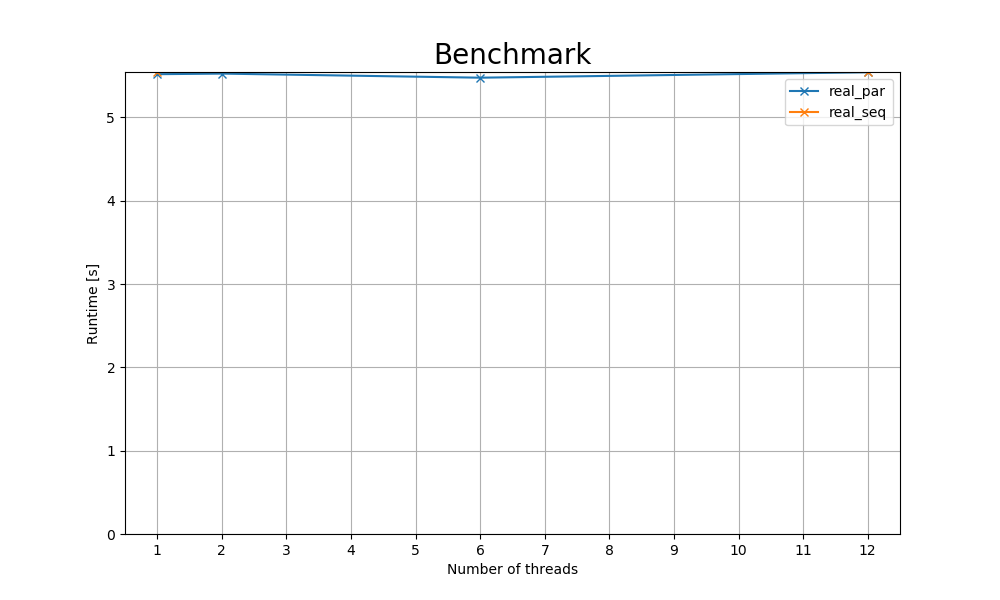
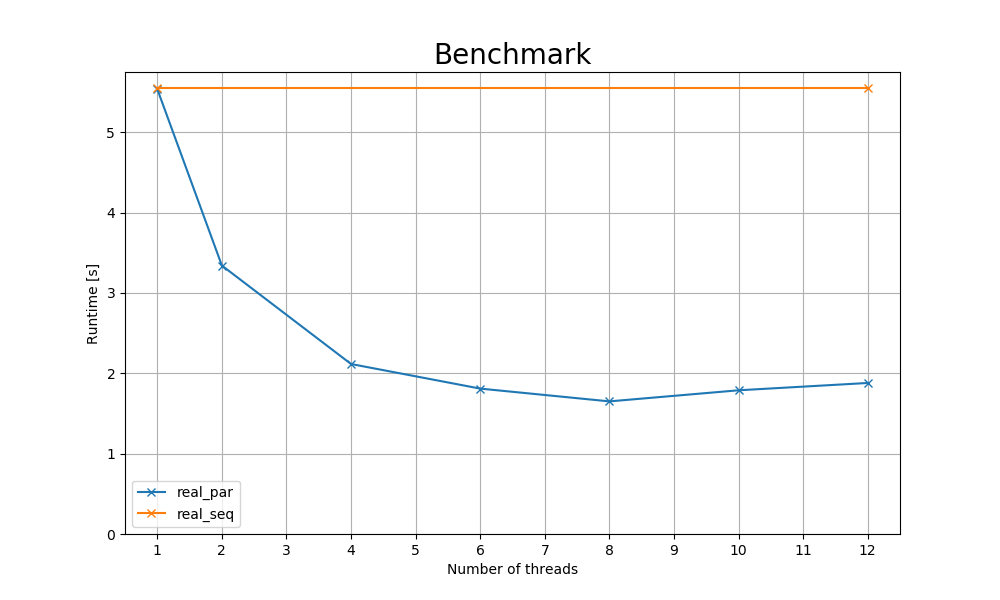
Finalized Assignment 11, Exercise 2 implementation

diff --git a/11/ex2/real_par.c b/11/ex2/real_par.c
@@ -442,6 +442,7 @@ static void psinv(void* or, void* ou, int n1, int n2, int n3, double c[4], int k
 	double r1[M], r2[M];
 
 	if(timeron) timer_start(T_psinv);
+#pragma omp parallel for private(i3, i2, i1, r1, r2)
 	for(i3 = 1; i3 < n3 - 1; i3++) {
 		for(i2 = 1; i2 < n2 - 1; i2++) {
 			for(i1 = 0; i1 < n1; i1++) {
@@ -499,6 +500,7 @@ static void resid(void* ou, void* ov, void* or, int n1, int n2, int n3, double a
 	double u1[M], u2[M];
 
 	if(timeron) timer_start(T_resid);
+#pragma omp parallel for private(i3, i2, i1, u1, u2)
 	for(i3 = 1; i3 < n3 - 1; i3++) {
 		for(i2 = 1; i2 < n2 - 1; i2++) {
 			for(i1 = 0; i1 < n1; i1++) {
@@ -573,6 +575,7 @@ static void rprj3(void* or, int m1k, int m2k, int m3k, void* os, int m1j, int m2
 		d3 = 1;
 	}
 
+#pragma omp parallel for private(j3, j2, j1, i3, i2, i1, x1, y1, x2, y2)
 	for(j3 = 1; j3 < m3j - 1; j3++) {
 		i3 = 2 * j3 - d3;
 		for(j2 = 1; j2 < m2j - 1; j2++) {
@@ -636,6 +639,7 @@ static void interp(void* oz, int mm1, int mm2, int mm3, void* ou, int n1, int n2
 
 	if(timeron) timer_start(T_interp);
 	if(n1 != 3 && n2 != 3 && n3 != 3) {
+#pragma omp parallel for private(i3, i2, i1, z1, z2, z3)
 		for(i3 = 0; i3 < mm3 - 1; i3++) {
 			for(i2 = 0; i2 < mm2 - 1; i2++) {
 				for(i1 = 0; i1 < mm1; i1++) {
@@ -692,6 +696,7 @@ static void interp(void* oz, int mm1, int mm2, int mm3, void* ou, int n1, int n2
 			t3 = 0;
 		}
 
+#pragma omp parallel for private(i3, i2, i1)
 		for(i3 = d3; i3 <= mm3 - 1; i3++) {
 			for(i2 = d2; i2 <= mm2 - 1; i2++) {
 				for(i1 = d1; i1 <= mm1 - 1; i1++) {
@@ -720,6 +725,7 @@ static void interp(void* oz, int mm1, int mm2, int mm3, void* ou, int n1, int n2
 			}
 		}
 
+#pragma omp parallel for private(i3, i2, i1)
 		for(i3 = 1; i3 <= mm3 - 1; i3++) {
 			for(i2 = d2; i2 <= mm2 - 1; i2++) {
 				for(i1 = d1; i1 <= mm1 - 1; i1++) {
@@ -797,9 +803,7 @@ static void norm2u3(void* or, int n1, int n2, int n3, double* rnm2, double* rnmu
 		}
 	}
 
-	if(my_rnmu > max_rnmu) {
-		max_rnmu = (my_rnmu > max_rnmu) ? my_rnmu : max_rnmu;
-	}
+	max_rnmu = (my_rnmu > max_rnmu) ? my_rnmu : max_rnmu;
 
 	*rnmu = max_rnmu;
 
@@ -827,6 +831,7 @@ static void comm3(void* ou, int n1, int n2, int n3, int kk) {
 
 	if(timeron) timer_start(T_comm3);
 
+#pragma omp parallel for private(i3, i2)
 	for(i3 = 1; i3 < n3 - 1; i3++) {
 		for(i2 = 1; i2 < n2 - 1; i2++) {
 			u[i3][i2][0] = u[i3][i2][n1 - 2];
@@ -841,6 +846,7 @@ static void comm3(void* ou, int n1, int n2, int n3, int kk) {
 		}
 	}
 
+#pragma omp parallel for private(i2, i1)
 	for(i2 = 0; i2 < n2; i2++) {
 		for(i1 = 0; i1 < n1; i1++) {
 			u[0][i2][i1] = u[n3 - 2][i2][i1];
@@ -1157,6 +1163,7 @@ static void zero3(void* oz, int n1, int n2, int n3) {
 
 	int i1, i2, i3;
 
+#pragma omp parallel for private(i3, i2, i1)
 	for(i3 = 0; i3 < n3; i3++) {
 		for(i2 = 0; i2 < n2; i2++) {
 			for(i1 = 0; i1 < n1; i1++) {

diff --git a/11/ex2/results/Benchmark.md b/11/ex2/results/Benchmark.md
@@ -1,6 +1,9 @@
 | num_threads | real_par | real_seq |
 |---|---|---|
-| 1 | 5.518s | 5.539s |
-| 2 | 5.525s | - |
-| 12 | 5.541s | 5.539s |
-| 6 | 5.476s | - |
+| 1 | 5.535s | 5.553s |
+| 2 | 3.340s | - |
+| 4 | 2.115s | - |
+| 6 | 1.809s | - |
+| 8 | 1.650s | - |
+| 10 | 1.788s | - |
+| 12 | 1.879s | 5.553s |
